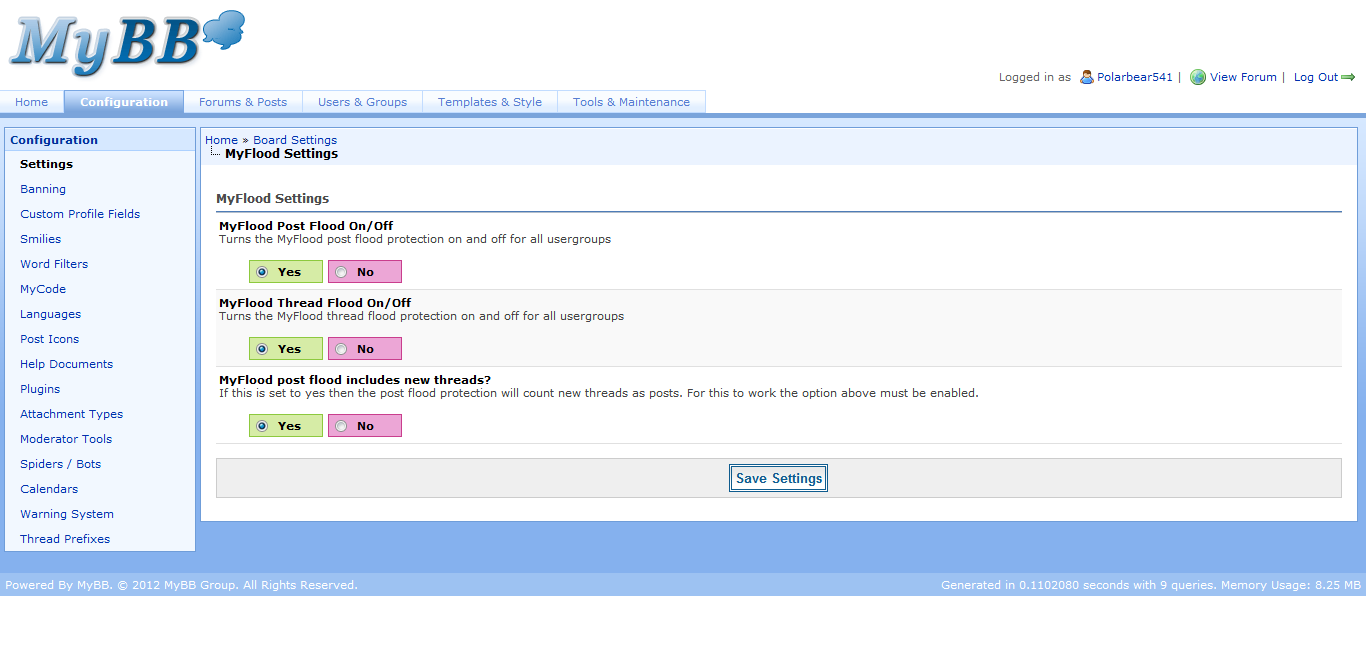
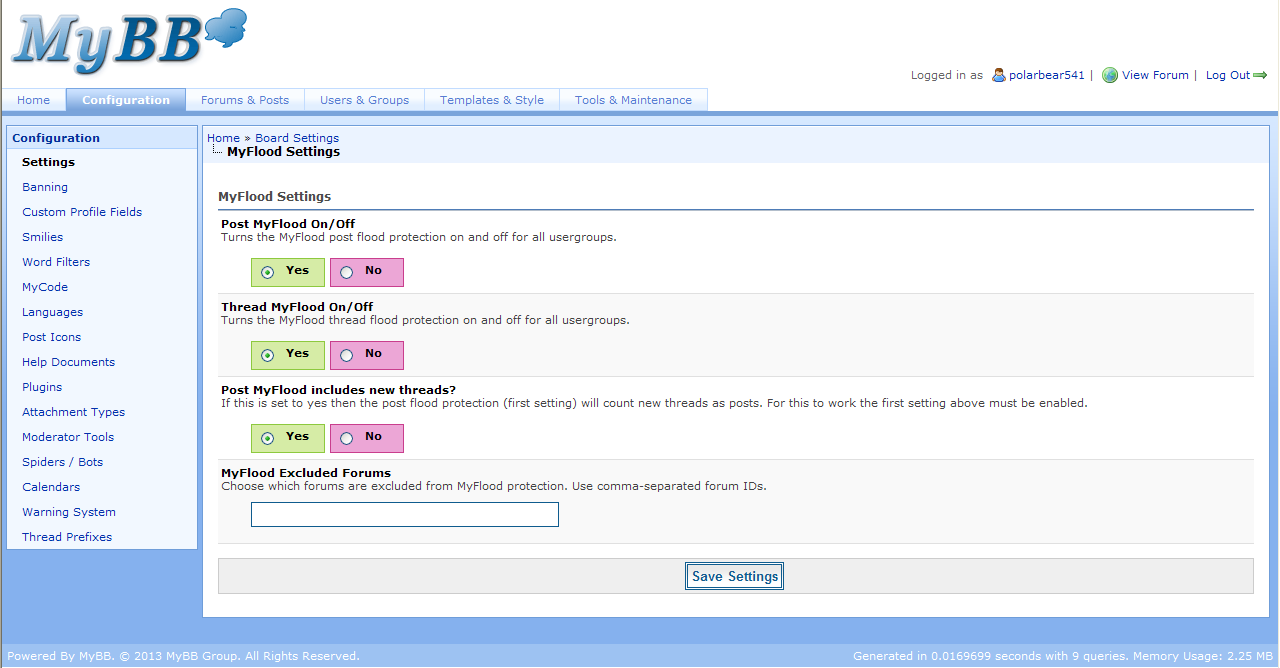
1.3 Updates

Changed region(s): [[0.0, 0.0, 1.0, 1.0], [0.7188, 0.09, 1.0, 0.1199]]

diff --git a/inc/plugins/myflood.php b/inc/plugins/myflood.php
@@ -15,11 +15,14 @@ $plugins->add_hook("admin_user_groups_edit_commit", "myflood_perm_submit");
 
 function myflood_info()
 {
+	global $lang;
+	$lang->load("myflood");
 	return array(
-		"name"			=> "MyFlood",
-		"description"	=> "A plugin which allows you to prevent flooding through new posts and new threads per usergroup.",
+		"name"			=> $lang->myflood,
+		"description"	=> $lang->myflood_desc,
 		"author"		=> "Polarbear541",
-		"version"		=> "1.2",
+		"website"		=> "http://community.mybb.com/thread-123207.html",
+		"version"		=> "1.3",
 		"compatibility" => "16*",
 		"guid" 			=> "2ffa3c273c4b27a258a3a7f1d7ee336c"
 	);
@@ -27,7 +30,8 @@ function myflood_info()
 
 function myflood_install() //When plugin installed
 {
-	global $db, $cache;
+	global $db, $cache, $lang;
+	$lang->load("myflood");
 	//Add column to DB if doesn't already exist
 	if(!$db->field_exists("timebtwnthreads", "usergroups"))
 	{
@@ -44,8 +48,8 @@ function myflood_install() //When plugin installed
 	$setting_group = array(
 		'gid'			=> 'NULL',
 		'name'			=> 'myflood',
-		'title'			=> 'MyFlood Settings',
-		'description'	=> 'Settings for MyFlood.',
+		'title'			=> $lang->myflood_settings,
+		'description'	=> $lang->myflood_settings_desc,
 		'disporder'		=> "1",
 		'isdefault'		=> 'no',
 	);
@@ -54,36 +58,47 @@ function myflood_install() //When plugin installed
 	
 	$setting_one = array(
 		'name'			=> 'myflood_posts_onoff',
-		'title'			=> 'MyFlood Post Flood On/Off',
-		'description'	=> 'Turns the MyFlood post flood protection on and off for all usergroups',
+		'title'			=> $lang->myflood_posts,
+		'description'	=> $lang->myflood_posts_desc,
 		'optionscode'	=> 'yesno',
 		'value'			=> '1',
 		'disporder'		=> 1,
-		'gid'			=> intval($gid),
+		'gid'			=> intval($gid)
 	);
 	$db->insert_query('settings', $setting_one);
 
 	$setting_two = array(
 		'name'			=> 'myflood_threads_onoff',
-		'title'			=> 'MyFlood Thread Flood On/Off',
-		'description'	=> 'Turns the MyFlood thread flood protection on and off for all usergroups',
+		'title'			=> $lang->myflood_threads,
+		'description'	=> $lang->myflood_threads_desc,
 		'optionscode'	=> 'yesno',
 		'value'			=> '1',
 		'disporder'		=> 2,
-		'gid'			=> intval($gid),
+		'gid'			=> intval($gid)
 	);
 	$db->insert_query('settings', $setting_two);
 
 	$setting_three = array(
 		'name'			=> 'myflood_ptflood',
-		'title'			=> 'MyFlood post flood includes new threads?',
-		'description'	=> 'If this is set to yes then the post flood protection will count new threads as posts. For this to work the option above must be enabled.',
+		'title'			=> $lang->myflood_ptflood,
+		'description'	=> $lang->myflood_ptflood_desc,
 		'optionscode'	=> 'yesno',
 		'value'			=> '1',
 		'disporder'		=> 3,
-		'gid'			=> intval($gid),
+		'gid'			=> intval($gid)
 	);
 	$db->insert_query('settings', $setting_three);
+	
+	$setting_four = array(
+		'name'			=> 'myflood_exforums',
+		'title'			=> $lang->myflood_exforums,
+		'description'	=> $lang->myflood_exforums_desc,
+		'optionscode'	=> 'text',
+		'value'			=> '',
+		'disporder'		=> 4,
+		'gid'			=> intval($gid)
+	);
+	$db->insert_query('settings', $setting_four);
 	
 	rebuild_settings();
 }
@@ -111,17 +126,25 @@ function myflood_uninstall() //When plugin uninstalled
 	$cache->update_usergroups();
 	
 	//Remove and rebuild settings
-	$db->query("DELETE FROM ".TABLE_PREFIX."settings WHERE name IN ('myflood_onoff','myflood_ptflood')");
+	$db->query("DELETE FROM ".TABLE_PREFIX."settings WHERE name IN ('myflood_posts_onoff','myflood_ptflood','myflood_threads_onoff','myflood_exforums')");
 	$db->query("DELETE FROM ".TABLE_PREFIX."settinggroups WHERE name='myflood'");
 	rebuild_settings(); 
 }
 
 function myflood_posts() //When post is being created run flood checks
 {
-	global $mybb, $lang, $db;
+	global $mybb, $lang, $db, $thread;
 	$lang->load("myflood");
-	//If time between posts isn't disabled for current usergroup
-	if($mybb->usergroup['timebtwnposts'] != 0 && $mybb->settings['myflood_posts_onoff'] != 0)
+	if(!empty($mybb->settings['myflood_exforums']))
+	{
+		$exforums = explode(",",$mybb->settings['myflood_exforums']);
+	}
+	else
+	{
+		$exforums = array();
+	}
+	//If time between posts isn't disabled for current usergroup and flood for posts is on. Also checks for excluded forums.
+	if($mybb->usergroup['timebtwnposts'] != 0 && $mybb->settings['myflood_posts_onoff'] != 0 && !in_array($thread['fid'],$exforums))
 	{
 		//Find last post timestamp
 		if($mybb->settings['myflood_ptflood'] == 1)
@@ -152,10 +175,18 @@ function myflood_posts() //When post is being created run flood checks
 
 function myflood_threads() //When thread is being created run flood checks
 {
-	global $mybb, $lang, $db;
+	global $mybb, $lang, $db, $fid;
 	$lang->load("myflood");
-	//If time between threads isn't disabled for current usergroup
-	if($mybb->usergroup['timebtwnthreads'] != 0 && $mybb->settings['myflood_threads_onoff'] != 0)
+	if(!empty($mybb->settings['myflood_exforums']))
+	{
+		$exforums = explode(",",$mybb->settings['myflood_exforums']);
+	}
+	else
+	{
+		$exforums = array();
+	}
+	//If time between threads isn't disabled for current usergroup and flood for threads is on. Also checks excluded forums.
+	if($mybb->usergroup['timebtwnthreads'] != 0 && $mybb->settings['myflood_threads_onoff'] != 0 && !in_array($fid,$exforums))
 	{
 		//Find last thread timestamp
 		$qry = $db->simple_select("threads", "dateline", "uid='{$mybb->user['uid']}'", array("order_by" => 'dateline', "order_dir" => 'DESC'));

diff --git a/inc/languages/english/myflood.lang.php b/inc/languages/english/myflood.lang.php
@@ -1,10 +1,30 @@
 <?php
 //MyFlood by Polarbear541
 //Released under the LGPL Licence (http://www.gnu.org/licenses/lgpl.html)
+
+//Plugin
+$l['myflood'] = 'MyFlood';
+$l['myflood_desc'] = 'A plugin which allows you to prevent flooding through new posts and new threads per usergroup.';
+
+//Settings
+$l['myflood_settings'] = 'MyFlood Settings';
+$l['myflood_settings_desc'] = 'Settings for MyFlood.';
+$l['myflood_posts'] = 'Post MyFlood On/Off';
+$l['myflood_posts_desc'] = 'Turns the MyFlood post flood protection on and off for all usergroups.';
+$l['myflood_threads'] = 'Thread MyFlood On/Off';
+$l['myflood_threads_desc'] = 'Turns the MyFlood thread flood protection on and off for all usergroups.';
+$l['myflood_ptflood'] = 'Post MyFlood includes new threads?';
+$l['myflood_ptflood_desc'] = 'If this is set to yes then the post flood protection (first setting) will count new threads as posts. For this to work the first setting above must be enabled.';
+$l['myflood_exforums'] = 'MyFlood Excluded Forums';
+$l['myflood_exforums_desc'] = 'Choose which forums are excluded from MyFlood protection. Use comma-separated forum IDs.';
+
+//Usergroup Permissions
 $l['post_flood_perm'] = 'Post Flood Control';
 $l['post_flood_perm_desc'] = 'Time between new posts in seconds (0 to disable)';
 $l['thread_flood_perm'] = 'Thread Flood Control';
 $l['thread_flood_perm_desc'] = 'Time between new threads in seconds (0 to disable)';
+
+//Errors
 $l['post_flood_error'] = 'You are trying to make a new post too quickly after your previous message. Please wait {1} more second.';
 $l['post_flood_error_plural'] = 'You are trying to make a new post too quickly after your previous message. Please wait {1} more seconds.';
 $l['thread_flood_error'] = 'You are trying to post a thread too quickly after posting a previous thread. Please wait {1} more second.';
